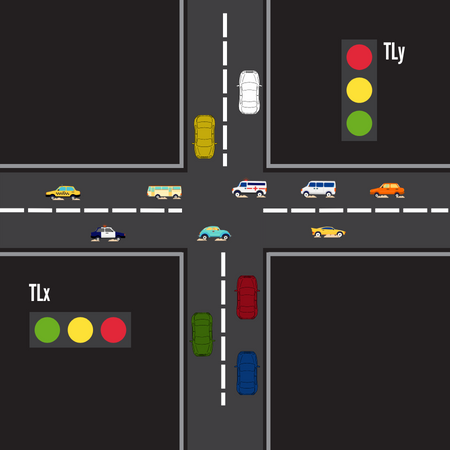
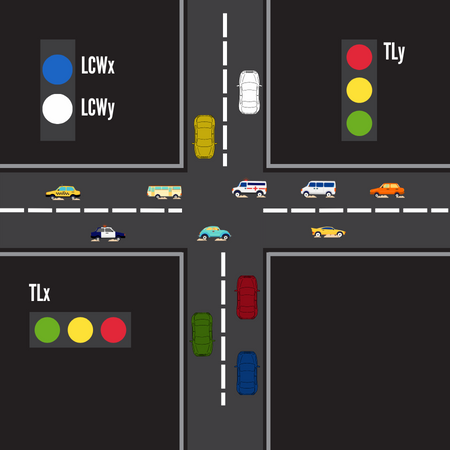
:)

Changed region(s): [[0.0933, 0.0622, 0.28, 0.3111]]

diff --git a/src/c++/platformIO/traffic_lights/src/main.cpp b/src/c++/platformIO/traffic_lights/src/main.cpp
@@ -1,26 +1,34 @@
 #include <Arduino.h>
 
-#define rows 4
-#define columns 6
+#define Phases 4 // Fases
+#define LEDs 8 // Numero de leds
 
+// Semaforo X
 #define LRx 4 
 #define LYx 5 
 #define LGx 6 
+
+// Semaforo Y
 #define LRy 7 
 #define LYy 8 
 #define LGy 9
+
+// Semaforo peatonal
+#define LCWx 10
+#define LCWy 11
 
 struct LED{
   const int pin;
   const int state;
 };
 
-const LED phases[rows][columns] = {
-  {{LRx, 1}, {LYx, 0}, {LGx, 0}, {LRy, 0}, {LYy, 0}, {LGy, 1}},
-  {{LRx, 1}, {LYx, 0}, {LGx, 0}, {LRy, 0}, {LYy, 1}, {LGy, 0}},
-  {{LRx, 0}, {LYx, 0}, {LGx, 1}, {LRy, 1}, {LYy, 0}, {LGy, 0}},
-  {{LRx, 0}, {LYx, 1}, {LGx, 0}, {LRy, 1}, {LYy, 0}, {LGy, 0}}
+const LED _array[Phases][LEDs] = {
+  {{LRx, 1}, {LYx, 0}, {LGx, 0}, {LRy, 0}, {LYy, 0}, {LGy, 1}, {LCWx, 0}, {LCWy, 1}},
+  {{LRx, 1}, {LYx, 0}, {LGx, 0}, {LRy, 0}, {LYy, 1}, {LGy, 0}, {LCWx, 0}, {LCWy, 1}}, 
+  {{LRx, 0}, {LYx, 0}, {LGx, 1}, {LRy, 1}, {LYy, 0}, {LGy, 0}, {LCWx, 1}, {LCWy, 0}},
+  {{LRx, 0}, {LYx, 1}, {LGx, 0}, {LRy, 1}, {LYy, 0}, {LGy, 0}, {LCWx, 1}, {LCWy, 0}}
 };
+
 
 bool crosswalk_x = false;
 bool crosswalk_y = false;
@@ -40,14 +48,13 @@ void setup(){
   pinMode(2, INPUT);
   pinMode(3, INPUT);
   attachInterrupt(digitalPinToInterrupt(2), change_state_crosswalk_x, RISING);
-  attachInterrupt(digitalPinToInterrupt(3), change_state_crosswalk_y, RISING);
-  Serial.begin(9600);
+  attachInterrupt(digitalPinToInterrupt(3), change_state_crosswalk_y, RISING);  
 }
   
 void loop(){
-  for(int i = 0; i < rows; i++){        
-    for(int j = 0; j < columns; j++){
-      digitalWrite(phases[i][j].pin, phases[i][j].state);
+  for(int i = 0; i < Phases; i++){        
+    for(int j = 0; j < LEDs; j++){
+      digitalWrite(_array[i][j].pin, _array[i][j].state);
     }  
     
     i == 0 || i == 2 ? delay(25000) : delay(15000);      

diff --git a/src/c++/platformIO/traffic_lights/README.md b/src/c++/platformIO/traffic_lights/README.md
@@ -4,7 +4,7 @@ Un ejemplo de un semaforo a dos vias, escrito en el lenguaje de programacion c++
 
 ## Como lo hice?
 
-Dividi los semaforos en dos maneras, el primer semaforo estara en el eje horizontal (X) y el segundo estara en el eje vertical (Y).
+Dividi los semaforos en dos maneras, el primer semaforo estara en el eje horizontal (X) y el segundo estara en el eje vertical (Y) y un semaforo aparte que sirve para saber que paso peatonal esta activo, el azul es del semaforo X y el blanco es del semaforo Y.
 
 ![Ejemplo](traffic_lights.png)
 
@@ -15,21 +15,25 @@ Con esta idea, dividi cada fase del semaforo:
   1. Primera fase:
       - LRx: 1 -> El LED rojo del semaforo X estara encendido.
       - LVy: 1 -> El LED verde del semaforo Y estara encendido.
+      - LCWy: 1 -> El LED blanco del paso peatonal del semaforo Y estara encendido.
       - Todos los demas LEDs estaran apagados.
 
   2. Segunda fase:
       - LRx: 1 -> El LED rojo del semaforo X estara encendido.
       - LYy: 1 -> El LED amarillo del semaforo Y estara encendido.
+      - LCWy: 1 -> El LED blanco del paso peatonal del semaforo Y estara encendido.
       - Todos los demas LEDs estaran apagados.
 
   3. Tercera fase:
       - LVx: 1 -> El LED verde del semaforo X estara encendido.
       - LRy: 1 -> El LED rojo del semaforo Y estara encendido.
+      - LVy: 1 -> El LED verde del semaforo Y estara encendido
       - Todos los demas LEDs estaran apagados. 
 
   4. Cuarta fase:
       - LYx: 1 -> El LED amarillo del semaforo X estara encendido.
       - LRy: 1 -> El LED rojo del semaforo Y estara encendido.
+      - LVy: 1 -> El LED verde del semaforo Y estara encendido
       - Todos los demas LEDs estaran apagados. 
 
 ### Creando el array      
@@ -37,12 +41,13 @@ Con esta idea, dividi cada fase del semaforo:
 Estas fases las almacene en un array de dos dimensiones, la primera es el numero de fases y la segunda es el numero de LEDs. 
 
 ```
-const LED phases[rows][columns] = {
-  {{LRx, 1}, {LYx, 0}, {LGx, 0}, {LRy, 0}, {LYy, 0}, {LGy, 1}},
+const LED _array[Phases][LEDs] = {
+  {{LRx, 1}, {LYx, 0}, {LGx, 0}, {LRy, 0}, {LYy, 0}, {LGy, 1}, {LCWx, 0}, {LCWy, 1}},
   {{LRx, 1}, {LYx, 0}, {LGx, 0}, {LRy, 0}, {LYy, 1}, {LGy, 0}},
-  {{LRx, 0}, {LYx, 0}, {LGx, 1}, {LRy, 1}, {LYy, 0}, {LGy, 0}},
+  {{LRx, 0}, {LYx, 0}, {LGx, 1}, {LRy, 1}, {LYy, 0}, {LGy, 0}, {LCWx, 1} , {LCWy, 0}},
   {{LRx, 0}, {LYx, 1}, {LGx, 0}, {LRy, 1}, {LYy, 0}, {LGy, 0}}
 };
+
 ```
 
 ### Tipo del array
@@ -58,7 +63,7 @@ struct LED{
 
 ### void setup()
 
-Declare dos variables de tipo booleano, crosswalk_x y crosswalk_y, estas variables inicializan con el valor false y cambian su estado cuando viene pedido el paso peatonal.
+Declare dos variables globales de tipo booleano, crosswalk_x y crosswalk_y, estas variables inicializan con el valor false y cambian su estado cuando viene pedido el paso peatonal.
 
 ```
 bool crosswalk_x = false; // Paso peatonal del semaforo x.
